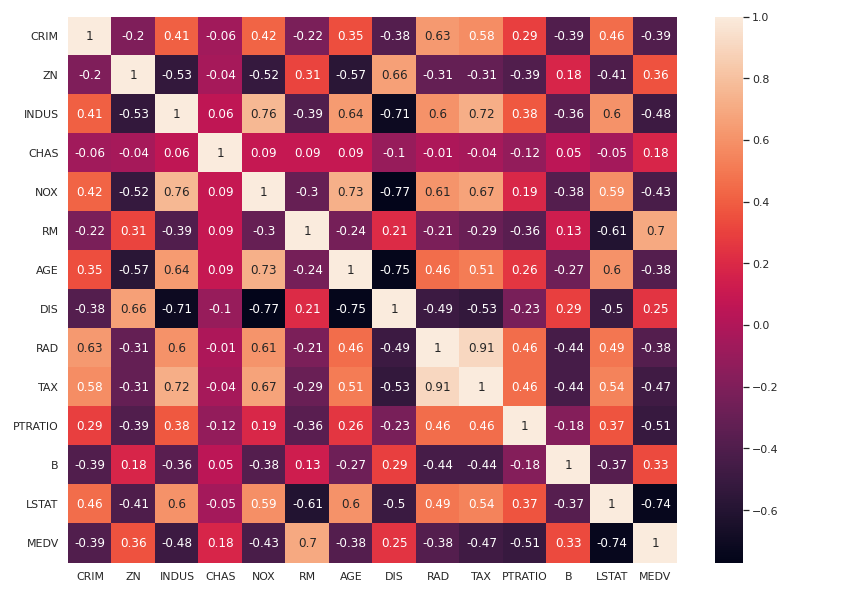
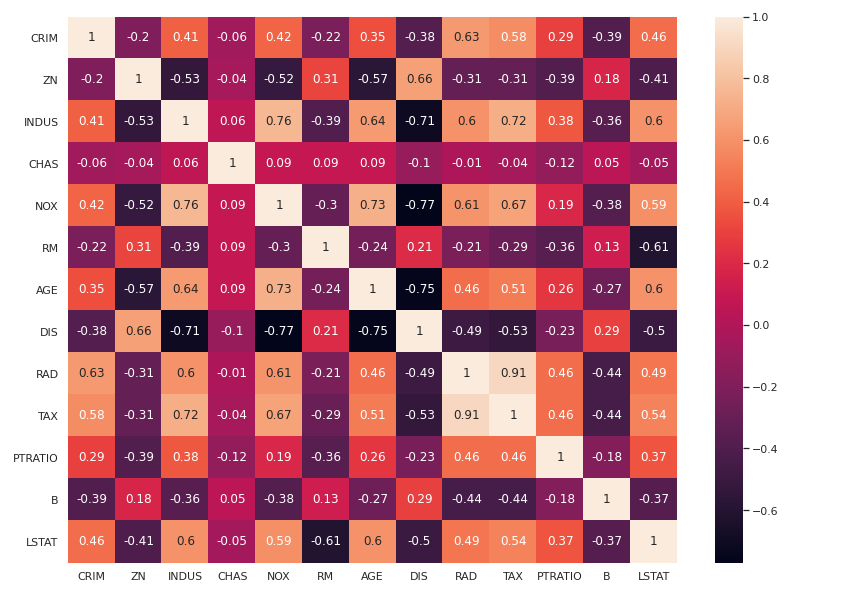
test

diff --git a/episode-04.md b/episode-04.md
@@ -49,15 +49,13 @@ plt.show()
   <img width="842" height="595" src="images/medv_dist_e04.png">
 </p>
 
-We see that the target values are distributed almost normally with few outliers. Next, we create a **correlation matrix** that measures the **linear relationships between the variables**. The correlation matrix can be formed by using the `corr()` function from the `pandas.DataFrame` library. We will use the `heatmap()` function from the `seaborn` library to plot the correlation matrix.
+We see that the target values are distributed almost normally with few outliers. And now we move on to the feature selection part.
+
+At the beggining, we usually apply some **unsupervised feature selection** method, so as to exclude linear dependencies among features. When referring to unsupervised feature selection, we mean that the information from output variable is totally ignored, as we focus only on the relationship between features. For this reason, we create a **correlation matrix** that measures the linearity between the variables. The correlation matrix can be formed by using the `.corr()` function from the `pandas.DataFrame` library[[2]](#2). We will use the `heatmap()` function from the `seaborn` library to plot the correlation matrix. Let's first print the matrix and then discuss further about it.
 
 ```python
-# Initial numpy array to dataframe - in order to include MEDV column
-boston = pd.DataFrame(boston_houses.data, columns=boston_houses.feature_names)
-boston['MEDV'] = boston_houses.target
-
 # Creating correlation matrix
-correlation_matrix = boston.corr().round(2)
+correlation_matrix = X.corr().round(2)
 
 # annot = True to print the values inside the square
 plt.figure()
@@ -69,13 +67,130 @@ plt.show()
   <img width="842" height="595" src="images/corr_matrix_e_04.png">
 </p>
 
-The correlation coefficient ranges from -1 to 1. If the value is close to 1, it means that there is a strong positive correlation between the two variables. When it is close to -1, the variables have a strong negative correlation.
+The default method for calculating correlation between features using `.corr()` function is **Pearson correlation coefficient**. The correlation coefficient is a measure of linear correlation between two sets of data. It is the covariance of two variables, divided by the product of their standard deviations; thus it is essentially a normalised measurement of the covariance, such that the result always has a value between −1 and 1. If the value is close to 1, it means that there is a strong positive correlation between the two variables. When it is close to -1, the variables have a strong negative correlation[[3]](#3). Some examples are presented in the following figure.
 
-First of all, let's exclude linear dependencies. An important point in selecting features for a linear regression model is to check for multi-co-linearity. The features `RAD`, `TAX` have a correlation of 0.91. These feature pairs are strongly correlated to each other. We should not select both these features together for training the model. Same goes for the features `DIS` and `AGE` which have a correlation of -0.75.
+<p align="center">
+  <img width="960" height="530" src="images/pearson_corr_coef_e_04.png">
+</p>
 
-So, we're going to pop out `TAX` and `DIS` features.
+Now, based on the correlation matrix we've printed, let's exclude linear dependencies. Thankfully, the total number of features is relatively small and, hence, we can do the process manually. The features `RAD`, `TAX` have a correlation of 0.91. These feature pairs are strongly correlated to each other. We should not select both these features together for training the model. Same goes for the pairs `DIS` and `AGE`, `DIS` and `NOX`, `DIS` and `INDUS`, `NOX` and `AGE`, `NOX` and `INDUS`, `TAX` and `INDUS` which have an absolute correlation higher thatn 0.7. A nice idea to solve this problem is to drop features `INDUS`, `NOX` and `DIS` and keep `AGE` and `TAX`. This is done by using the `.drop()` function. The `inplace` argument determines whether to return a copy of the initial dataframe (False) or do operation inplace and return None (True).
+
+```python
+# Exclude INDUS, NOX and DIS
+X.drop(columns=['INDUS', 'NOX', 'DIS'], inplace=True)
+```
+
+Next, we are goint to apply some **supervised feature selection** method, meaning that this time we'll mainly consider the connection between each feature separately with the output variable. Let's remind us the useful image from the second episode.
+
+<p align="center">
+  <img width="1071" height="566" src="images/filter_based_methods_e02.png">
+</p>
+
+In our case, we have numerical inputs and outputs, so we end up with two choices: Pearson's and Spearman's coefficinets. As we already discussed, Pearson's coefficient checks the linearity between two variables. However, if we go back to the previous episode, we'll notice that the optimal degree of polynomial features occured from cros-validation process was `degree = 2`. Hence, at least one feature is connected quadratically with the output. So it seems obvious that Pearson's coefficient is not the optimal criterion.
+
+On the other hand, **Spearman's rank correlation coefficient** assesses how well the relationship between two variables can be described using a monotonic function. While Pearson's correlation assesses linear relationships, Spearman's correlation assesses monotonic relationships (whether linear or not). If there are no repeated data values, a perfect Spearman correlation of +1 or −1 occurs when each of the variables is a perfect monotone function of the other.
+
+Therefore, we're going to calculate Spearman's coefficient between each one of the remaining columns and output variable. But prior to this step, let's rescale data, because at this point we start mixing up target variable in our analysis. Basically, normalization is only required when calculating distances, that is the pre-modeling phase. It's not actually important at this step, but let's do this now to get rid of it.
+
+```python
+from sklearn.preprocessing import PolynomialFeatures
+from sklearn.preprocessing import MinMaxScaler
+
+#### Normalization
+
+# feature names
+feature_names = X.columns
+
+# Normalize
+min_max_scaler = MinMaxScaler()
+X_normalized = min_max_scaler.fit_transform(X)
+X_normalized = pd.DataFrame(X_normalized, columns=feature_names)
+```
+
+And now Spearman's coefficient time. The coefficient is calculated by `spearmanr()` function from `scipy.stats` library. Anyway, not something that unusual to mention in the following code, just to remind that we are interested in the absolute values of the coefficient, because we want to detect either increasing or decreasing monotonical relationship between features and target variable.
+
+```python
+from scipy.stats import spearmanr
+
+# Correlations
+spearman_corr_array = []
+
+for col in X_normalized:
+    spearman_corr_array.append(spearmanr(X_normalized[col], y['Median Price'])[0])
+
+# taking absolute values:
+abs_spearman = [abs(ele) for ele in spearman_corr_array]
+
+# plot the scores
+plt.figure(figsize=(15,10))
+plt.bar(X_normalized.columns, abs_spearman)
+plt.xticks(rotation = 'vertical')
+plt.title('Spearman correlation between features and output', fontsize = 20)
+plt.show()
+```
+
+<p align="center">
+  <img width="1080" height="720" src="images/spearmans_coeff_e_04.png">
+</p>
+
+`LSTAT` feature is the most closely correlated feature with the target variable, according to Spearman's coefficient, followed by `RM`, whose score however is much lower. If we define a threshold of 0.6 absolute value of Spearman's coefficient, we end up selection only these two features.
+
+```python
+# Selecting only LSTAT and RM
+X_selected = X_normalized[['LSTAT', 'RM']]
+```
+
+The following code is more or less similar to the previous episode. We apply polynomial transofmation of `degree = 2` to features and apply Linear Regression. There is no need to apply cross-validation, because we work under the assumption that the optimal degree was calculated in the previous episode. So we only train and test our model. Let's check the results.
+
+```python
+from sklearn.model_selection import train_test_split
+from sklearn.linear_model import LinearRegression
+from sklearn.metrics import mean_squared_error
+
+#### Polynomial transformation
+
+# Optimal degree
+deg = 2
+
+# Transforming features
+poly_model = PolynomialFeatures(degree=deg, include_bias = False)
+poly_model.fit(X_selected)
+X_poly = poly_model.transform(X_selected)
+
+# Fit - no validation, as it was done in the previous episode
+
+# train - test split
+X_train, X_test, y_train, y_test = train_test_split(X_poly, y, test_size=0.3, shuffle = True, random_state = 0)
+
+# Linear regression
+model = LinearRegression(fit_intercept = True, copy_X=True, normalize = False)
+model.fit(X_train, y_train)
+
+# test - metrics
+y_pred = model.predict(X_test)
+
+print('Test set results:')
+
+# MSE
+mse = mean_squared_error(y_test, y_pred)
+print('MSE: ' + str(mse))
+
+# R square
+r_sq = model.score(X_test, y_test)
+print('R^2: ' + str(r_sq))
+```
+
+~~~
+Test set results:
+MSE: 23.805568624080962
+R^2: 0.7141004599281642
+~~~
+
+Metrics are absolutely better than the model of the previous episode. So, it's obvious now that we've achieved denoising our model for a better performance!
 
 ## Feature Selection - Classification
+bla bla bla
+
 
 ## References
 
@@ -83,3 +198,11 @@ So, we're going to pop out `TAX` and `DIS` features.
 Jason Brownlee (2020)
 How to Perform Feature Selection for Regression Data
 Machine Learning Mastery, [Link](https://machinelearningmastery.com/feature-selection-for-regression-data/)
+
+<a id="2">[2]</a> 
+Animesh Agarwal (2018)
+Linear Regression on Boston Housing Dataset
+Towards Data Science, [Link](https://towardsdatascience.com/linear-regression-on-boston-housing-dataset-f409b7e4a155)
+
+<a id="3">[3]</a> 
+https://en.wikipedia.org/wiki/Pearson_correlation_coefficient
